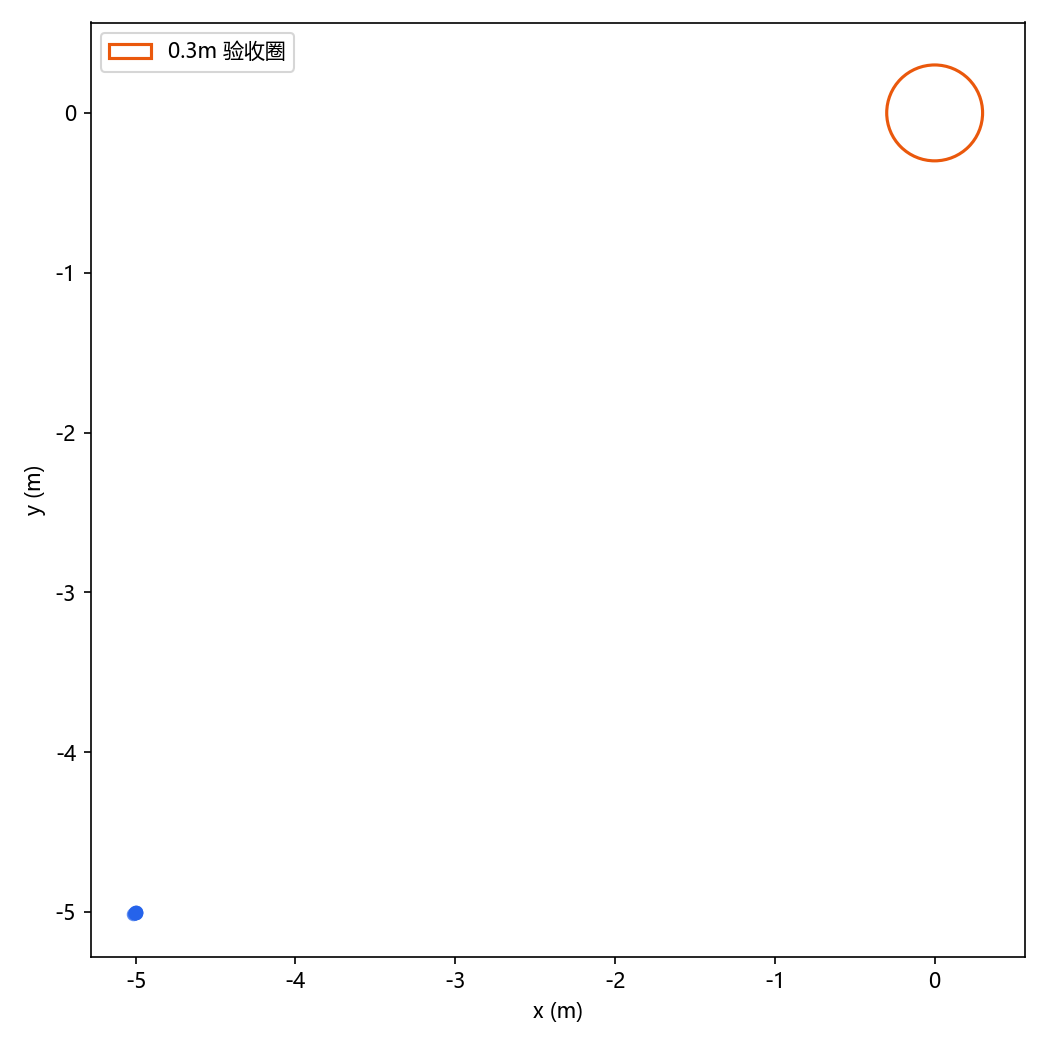
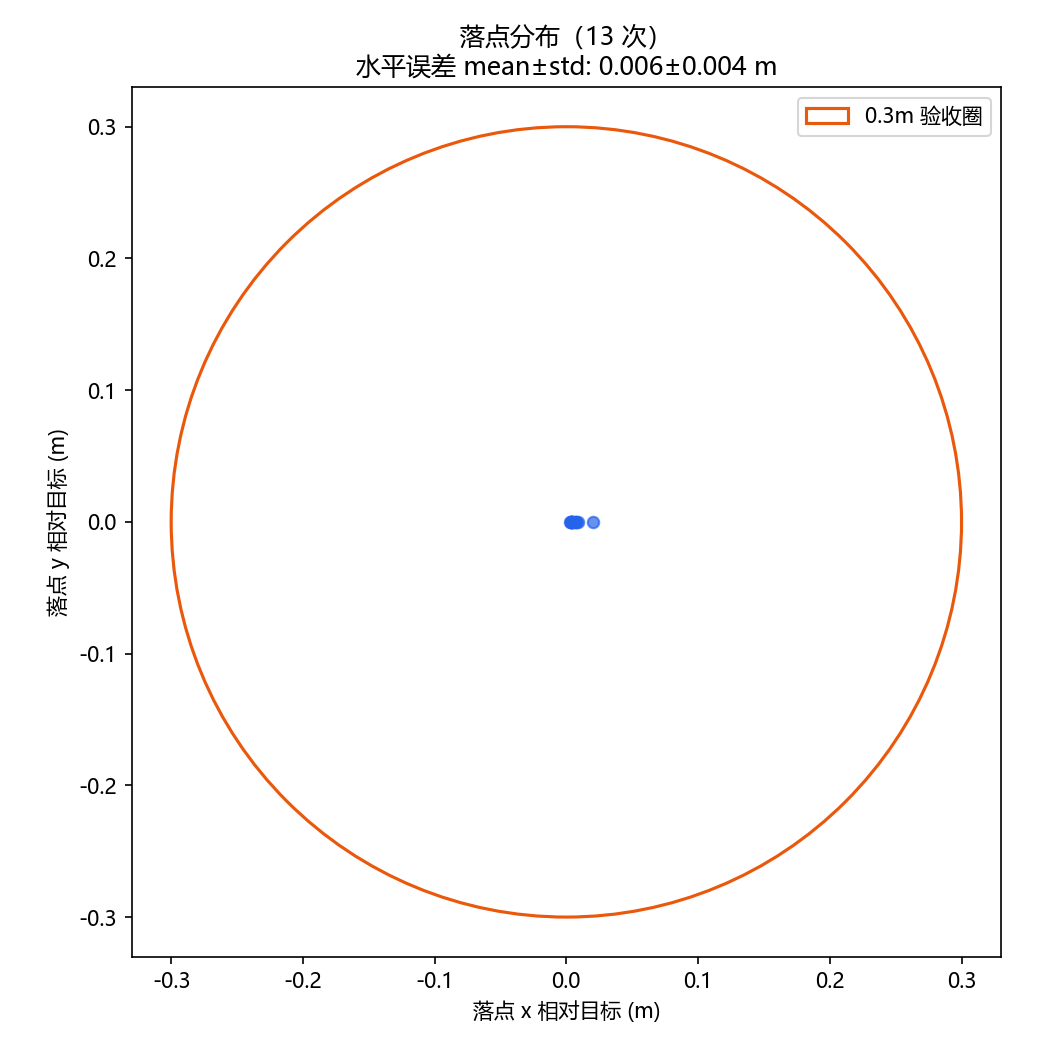
fix: 落点图表改用目标相对坐标与 horizontal_error_m（验收圈语义正确）

diff --git a/tests/test_plot_report.py b/tests/test_plot_report.py
@@ -2,24 +2,32 @@ import json
 from pathlib import Path
 from unittest import mock
 
+import pytest
+
 from analysis.plot_report import collect_timeseries, build_landing_points, plot_success_rate
+
+
+# 目标 (-5,-5)；落点世界坐标 (-4.95,-5.03) => 相对坐标 (0.05,-0.03)
+_TARGET_X = -5.0
+_TARGET_Y = -5.0
 
 
 def _make_batch(tmp_path):
     d = tmp_path / "batch" / "dist_strong"
     d.mkdir(parents=True)
     (d / "samples.csv").write_text(
-        "t_s,sim_time_s,state,z_m,x_m,y_m,roll_deg,pitch_deg,yaw_deg,upper_rad_s,lower_rad_s,"
-        "horizontal_error_m,touchdown_vz_m_s,abort_reason,disturbance_active,buoyancy_n,slamming_force_n\n"
-        "0.0,1.0,HIGH_HOVER,0.8,0.1,0.2,1.5,-2.0,0.0,100,95,0.1,0.0,,True,0,0\n"
-        "1.0,2.0,LANDED,0.02,0.05,0.03,0.5,0.4,0.0,60,55,0.05,-0.2,,True,80,1.0\n"
+        "t_s,sim_time_s,state,z_m,x_m,y_m,target_x_m,target_y_m,roll_deg,pitch_deg,yaw_deg,"
+        "upper_rad_s,lower_rad_s,horizontal_error_m,touchdown_vz_m_s,abort_reason,"
+        "disturbance_active,buoyancy_n,slamming_force_n\n"
+        f"0.0,1.0,HIGH_HOVER,0.8,0.1,0.2,{_TARGET_X},{_TARGET_Y},1.5,-2.0,0.0,100,95,0.1,0.0,,True,0,0\n"
+        f"1.0,2.0,LANDED,0.02,-4.95,-5.03,{_TARGET_X},{_TARGET_Y},0.5,0.4,0.0,60,55,0.058,-0.2,,True,80,1.0\n"
     )
     (d / "meta.json").write_text(json.dumps({
         "tag": "dist_strong",
         "scenario": {"disturbance_preset": "strong", "offset_x_m": 0.0,
                      "nonidealities": False, "platform_vx_m_s": 0.0},
         "outcome": "LANDED",
-        "landing": {"touchdown_vz_m_s": -0.2, "final_horizontal_error_m": 0.05,
+        "landing": {"touchdown_vz_m_s": -0.2, "final_horizontal_error_m": 0.058,
                     "max_abs_roll_deg": 1.5, "abort_reason": ""},
     }))
     return tmp_path / "batch"
@@ -37,8 +45,32 @@ def test_build_landing_points(tmp_path):
     batch = _make_batch(tmp_path)
     pts = build_landing_points(batch)
     assert pts[0]["tag"] == "dist_strong"
-    assert pts[0]["x"] == 0.05
-    assert pts[0]["y"] == 0.03
+    # 相对坐标：验收圈原点即目标 (-5,-5)
+    assert pts[0]["x"] == pytest.approx(0.05)
+    assert pts[0]["y"] == pytest.approx(-0.03)
+    assert pts[0]["relative"] is True
+    assert pts[0]["horizontal_error_m"] == pytest.approx(0.058)
+
+
+def test_build_landing_points_fallback_without_target(tmp_path):
+    d = tmp_path / "batch" / "legacy"
+    d.mkdir(parents=True)
+    # 旧数据：samples.csv 无 target_x_m/target_y_m 列
+    (d / "samples.csv").write_text(
+        "t_s,sim_time_s,state,z_m,x_m,y_m,roll_deg,pitch_deg,yaw_deg,upper_rad_s,lower_rad_s,"
+        "horizontal_error_m,touchdown_vz_m_s,abort_reason,disturbance_active,buoyancy_n,slamming_force_n\n"
+        "1.0,2.0,LANDED,0.02,-4.95,-5.03,0.5,0.4,0.0,60,55,0.058,-0.2,,True,80,1.0\n"
+    )
+    (d / "meta.json").write_text(json.dumps({
+        "tag": "legacy",
+        "scenario": {"disturbance_preset": "strong"},
+        "outcome": "LANDED",
+    }))
+    pts = build_landing_points(tmp_path / "batch")
+    assert pts[0]["relative"] is False
+    # 退化：x 取 horizontal_error_m，y 置 0
+    assert pts[0]["x"] == pytest.approx(0.058)
+    assert pts[0]["y"] == 0.0
 
 
 def test_plot_success_rate_writes_png(tmp_path):

diff --git a/analysis/plot_report.py b/analysis/plot_report.py
@@ -88,14 +88,27 @@ def build_landing_points(batch_dir: Path) -> list[dict]:
             continue
         last = rows[-1]
         meta = json.loads(meta_path.read_text(encoding="utf-8"))
-        pts.append({
+        # 优先用目标相对坐标：x/y 相对降落目标，验收圈原点即目标（世界系不再混用）
+        has_target = "target_x_m" in last and "target_y_m" in last
+        if has_target:
+            rx = float(last["x_m"]) - float(last["target_x_m"])
+            ry = float(last["y_m"]) - float(last["target_y_m"])
+        else:
+            # 旧数据（无目标列）：退化为 horizontal_error_m，y 置 0，仍落在验收圈语义内
+            rx = float(last.get("horizontal_error_m", 0.0))
+            ry = 0.0
+        pt = {
             "tag": d.name,
-            "x": float(last["x_m"]),
-            "y": float(last["y_m"]),
+            "x": rx,
+            "y": ry,
             "vz": float(last["touchdown_vz_m_s"]),
+            "relative": has_target,
             "outcome": meta.get("outcome", "UNKNOWN"),
             "group": meta.get("scenario", {}).get("disturbance_preset", "off"),
-        })
+        }
+        if "horizontal_error_m" in last:
+            pt["horizontal_error_m"] = float(last["horizontal_error_m"])
+        pts.append(pt)
     return pts
 
 
@@ -126,10 +139,15 @@ def plot_landing_scatter(points: list[dict], out_png: str) -> None:
     ax.scatter(xs, ys, c=C_BLUE, s=30, alpha=0.7)
     ax.add_patch(plt.Circle((0, 0), 0.3, fill=False, color=C_ORANGE, lw=1.5,
                             label="0.3m 验收圈"))
-    ax.set_xlabel("x (m)")
-    ax.set_ylabel("y (m)")
+    ax.set_xlabel("落点 x 相对目标 (m)")
+    ax.set_ylabel("落点 y 相对目标 (m)")
     ax.set_aspect("equal")
     ax.legend()
+    title = f"落点分布（{len(points)} 次）"
+    errs = [p["horizontal_error_m"] for p in points if "horizontal_error_m" in p]
+    if errs:
+        title += f"\n水平误差 mean±std: {np.mean(errs):.3f}±{np.std(errs):.3f} m"
+    ax.set_title(title)
     fig.tight_layout()
     fig.savefig(out_png, dpi=150)
     plt.close(fig)
@@ -168,11 +186,11 @@ def plot_success_rate(rows: list[dict], out_png: str) -> None:
 
 def plot_touchdown_safety(points: list[dict], out_png: str) -> None:
     fig, ax = plt.subplots(figsize=(8, 6))
-    xs = [p["x"] for p in points]  # 落点偏差近似用 |x|+|y|
+    xs = [p.get("horizontal_error_m", abs(p["x"])) for p in points]
     vs = [abs(p["vz"]) for p in points]
     ax.scatter(xs, vs, c=C_BLUE, s=30, alpha=0.7)
     ax.axhline(0.35, color=C_GREEN, ls="--", lw=1.5, label="vz 安全边界 0.35 m/s")
-    ax.set_xlabel("落点 |x| (m)")
+    ax.set_xlabel("落点水平误差 (m)")
     ax.set_ylabel("触水 |vz| (m/s)")
     ax.legend()
     fig.tight_layout()

diff --git a/scripts/run_one_flight.py b/scripts/run_one_flight.py
@@ -118,6 +118,8 @@ def landing_row(st: dict, status: dict | None, t: float) -> dict:
         "z_m": float(st["position"]["z"]),
         "x_m": float(st["position"].get("x", 0.0)),
         "y_m": float(st["position"].get("y", 0.0)),
+        "target_x_m": float(status.get("landing_target_x_m", 0.0)),
+        "target_y_m": float(status.get("landing_target_y_m", 0.0)),
         "roll_deg": round(float(att.get("roll_rad", 0.0)) * 57.29578, 4),
         "pitch_deg": round(float(att.get("pitch_rad", 0.0)) * 57.29578, 4),
         "yaw_deg": round(float(att.get("yaw_rad", 0.0)) * 57.29578, 4),
@@ -219,7 +221,8 @@ def main() -> int:
         outcome = "ABORTED"
 
     # 4) 落盘
-    fields = ["t_s", "sim_time_s", "state", "z_m", "x_m", "y_m", "roll_deg",
+    fields = ["t_s", "sim_time_s", "state", "z_m", "x_m", "y_m", "target_x_m",
+              "target_y_m", "roll_deg",
               "pitch_deg", "yaw_deg", "upper_rad_s", "lower_rad_s",
               "horizontal_error_m", "touchdown_vz_m_s", "abort_reason",
               "disturbance_active", "buoyancy_n", "slamming_force_n"]

diff --git a/tests/test_run_one_flight.py b/tests/test_run_one_flight.py
@@ -79,9 +79,20 @@ def test_landing_row_fields():
           "motors": {"upper_rad_s": 100.0, "lower_rad_s": 90.0},
           "stats": {"sim_time_s": 10.0}}
     status = {"landing_state": "SLOW_DESCENT", "landing_horizontal_error_m": 0.2,
-              "landing_touchdown_vz_m_s": -0.1}
+              "landing_touchdown_vz_m_s": -0.1,
+              "landing_target_x_m": -5.0, "landing_target_y_m": -5.0}
     row = landing_row(st, status, t=1.0)
     assert row["state"] == "SLOW_DESCENT"
     assert row["z_m"] == 0.30
     assert row["horizontal_error_m"] == 0.2
     assert row["touchdown_vz_m_s"] == -0.1
+    assert row["target_x_m"] == -5.0
+    assert row["target_y_m"] == -5.0
+
+
+def test_landing_row_target_defaults_when_status_missing():
+    st = {"position": {"z": 0.30}, "attitude": {}, "motors": {},
+          "stats": {"sim_time_s": 10.0}}
+    row = landing_row(st, None, t=1.0)
+    assert row["target_x_m"] == 0.0
+    assert row["target_y_m"] == 0.0
